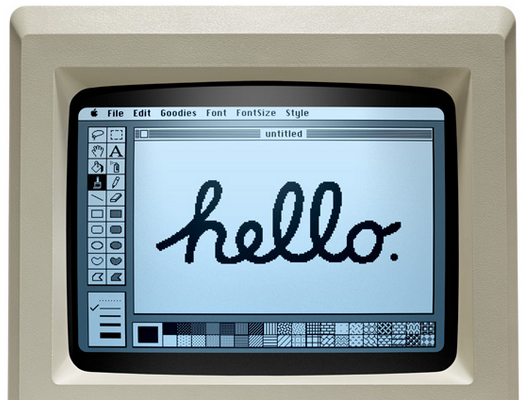
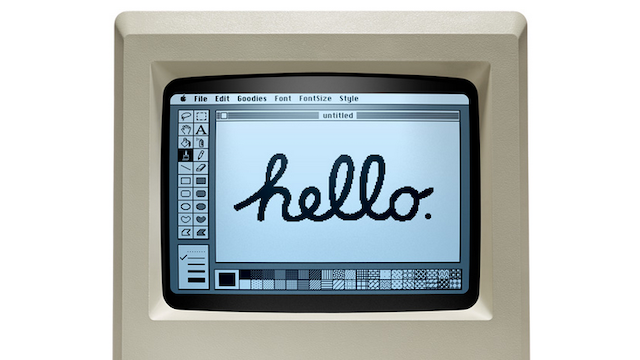
probleme d iframe position et taille, ainqi que pour le button

diff --git a/index.html b/index.html
@@ -17,7 +17,7 @@
 
 
 <div data-5800="opacity: 1;" data-6000="opacity:0;" class="intro"> 
-<button class="center">test</button>
+<button class="btnRaccourciScreen" > <a href="#screen">En savoir plus</a></button>
 <div  data-0="opacity: 1;" data-200="opacity: 0; top:60%">Bienvenue, Je m'appelle Théophile Gregoire</div>
 <div data-200="opacity: 0;" data-400="opacity: 1.5;" data-600="opacity: 0; top:50% ;left:30%">Thanks! Keep scrolling..</div>
 <div  data-800="opacity: 0;" data-1000="opacity: 1.5; " data-2000="" data-2200="opacity: 0; top:50% ;left:30%">Laissez-moi me présenter...</div>
@@ -32,23 +32,29 @@
 </div>
 
 
-<div  data-5700="opacity: 0;" data-6200="opacity:1">
+
+<div id="screen" class="container" data-5700="opacity: 0;" data-6200="opacity:1">
+
+
+ <img src="./images/macintoshzoom.png" > 
 
 
 
-  <img class="responsive-img" width="100%" height="100%" src="./images/macintoshzoom.png" /> 
- 
- <!-- 
+ <div class="container1">
 
 <iframe id="inlineFrameExample"
     title="Inline Frame Example"
-    width="300"
-    height="200"
+    width="610px";
+  height="530px";
+  border-radius= "50px"; 
     src="https://www.myprivatebeach.fr">
 </iframe>
--->
-</div>
+ </div>
 
+
+ 
+
+</div>
 
 
 </body>

diff --git a/styles.css b/styles.css
@@ -12,15 +12,36 @@ div {
   
 }
 
-img {
-  margin-top: -200px;  
-}
-
-.zoom{
-	position: center;
+.btnRaccourciScreen{
+  position: absolute;
+  top : 40%;
+  left: 39%;
 }
 
 .intro{
-	background-image: url(./images/macintosh.png);
-	background-position: center;
+  background-image: url(./images/macintosh.png);
+  background-position: center;
+
 }
+
+
+.container img {
+  width: 100%;
+  height: 100%;
+
+}
+
+.container1{
+  z-index: 50;
+  top: 22%;
+  right: 5%;
+  
+}
+
+.container{
+  z-index: 1;
+  width:100%;
+  height: 100%;
+}
+
+
